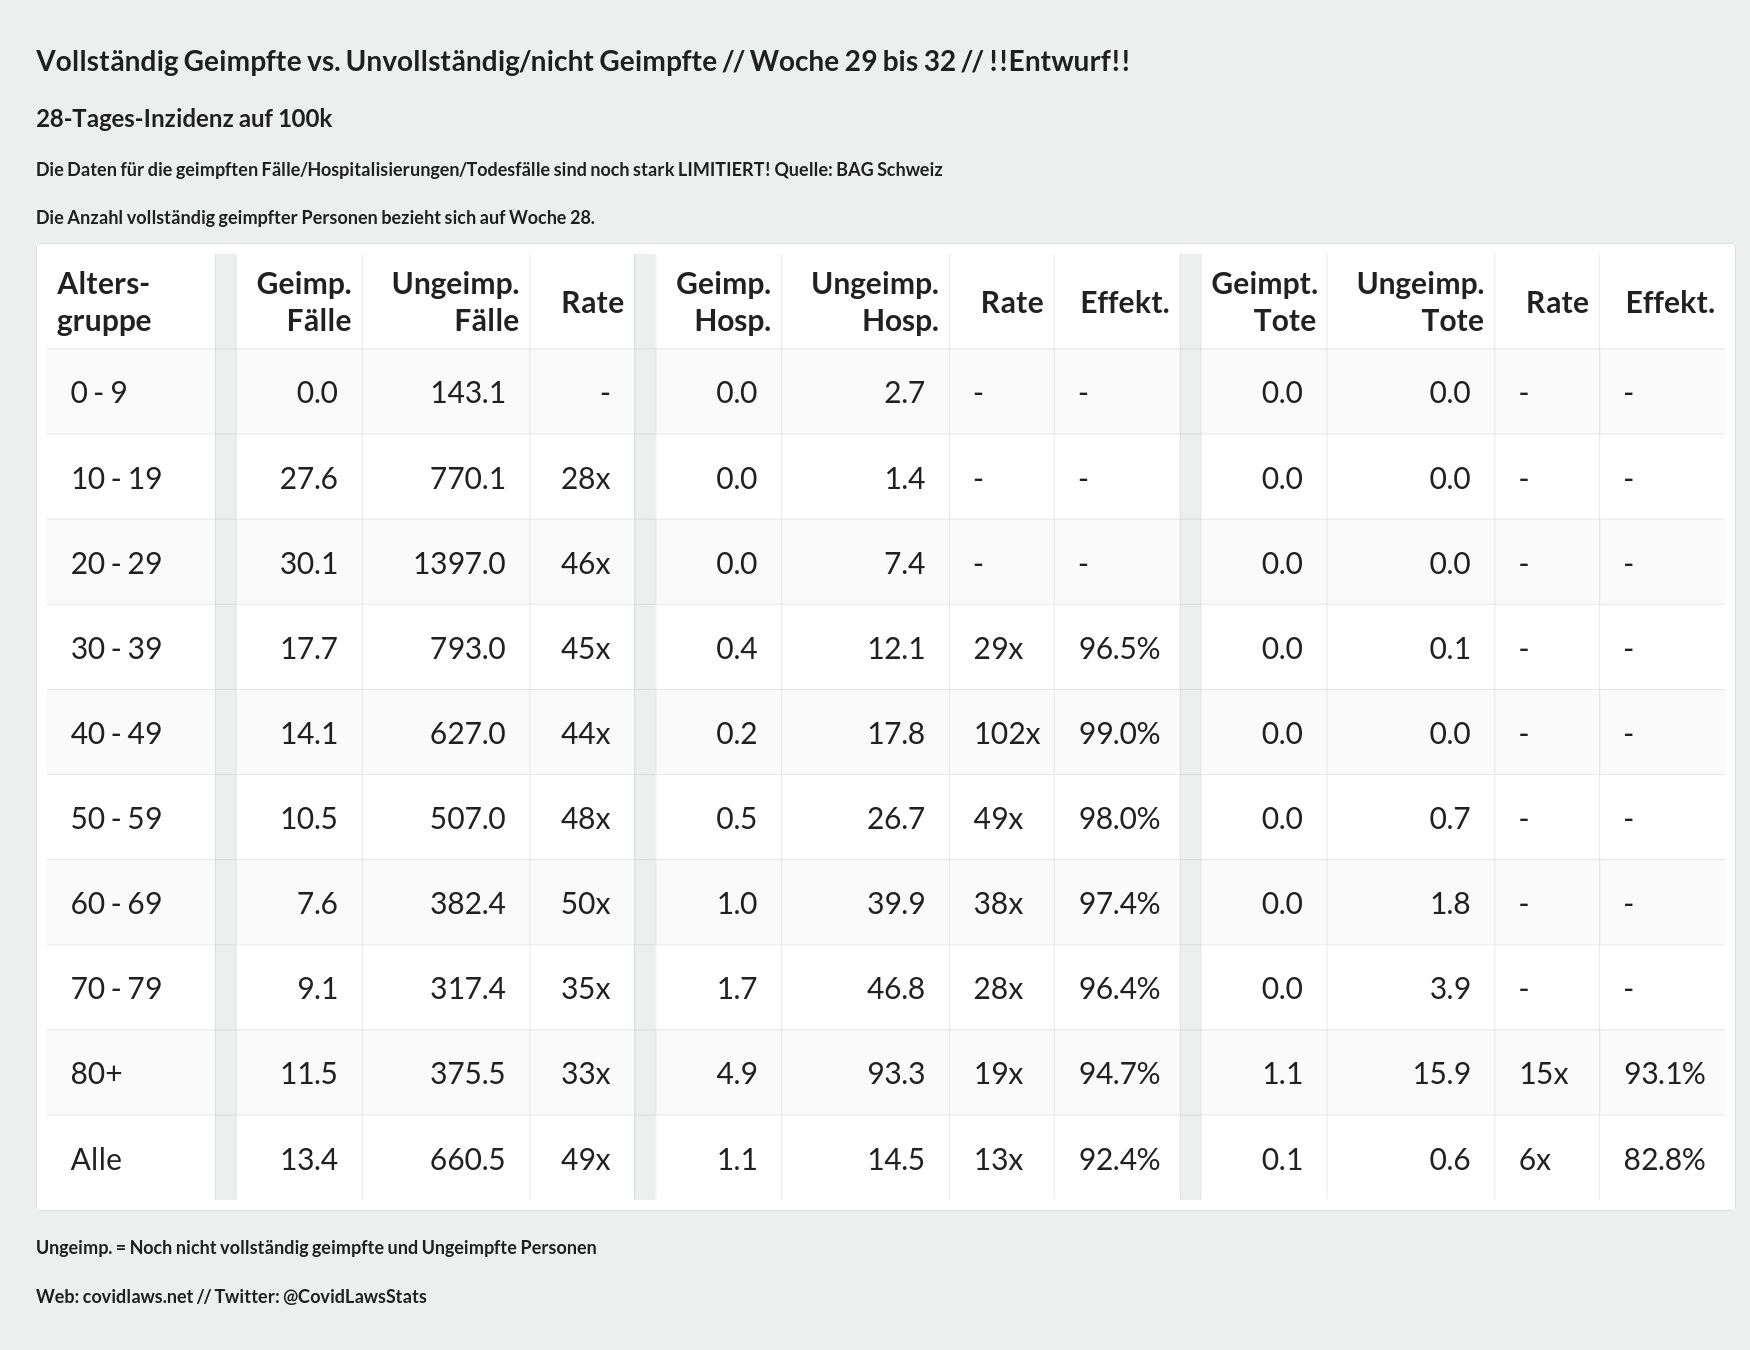
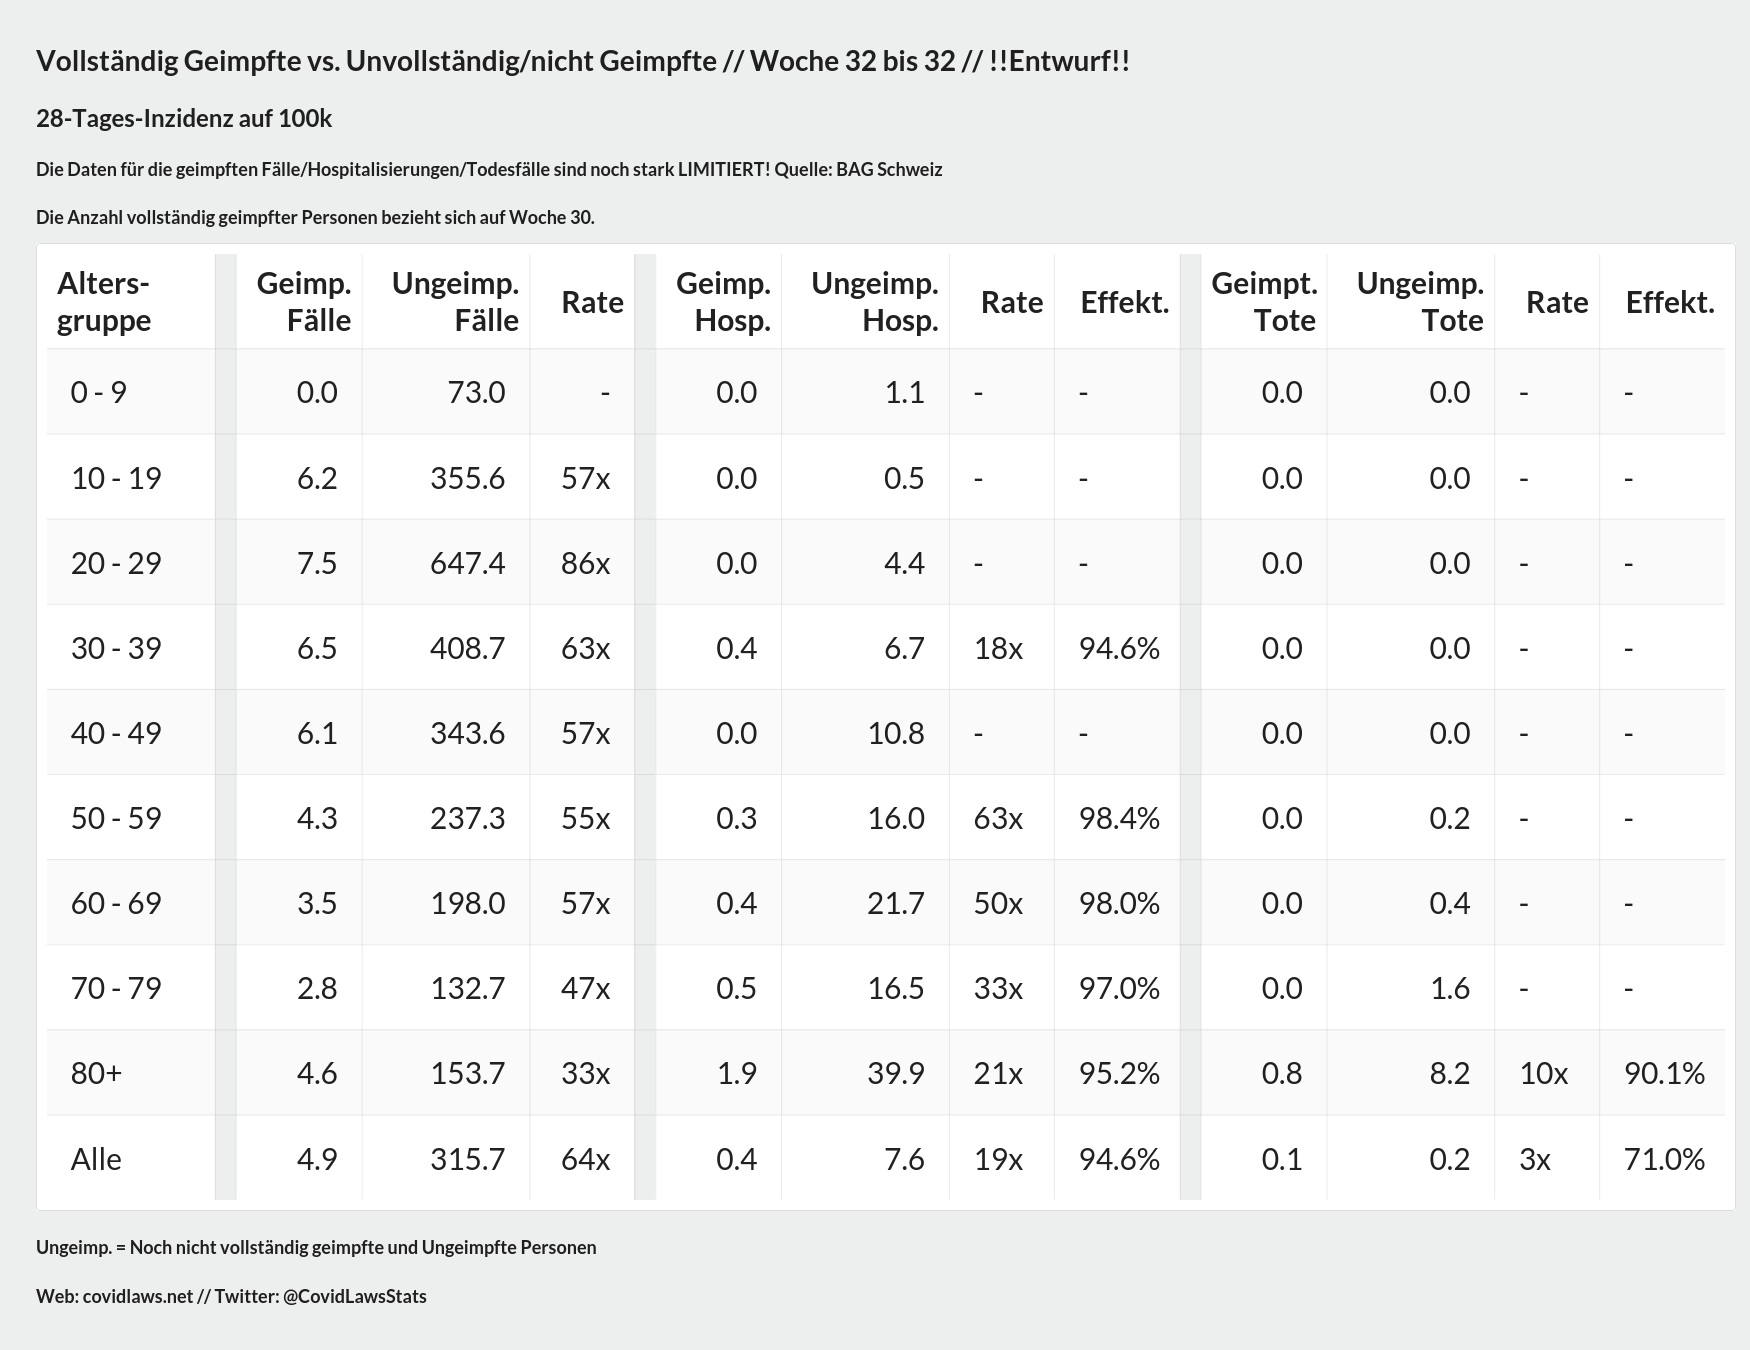
show BE

diff --git a/measuremeterdata/tasks/socialmedia/tweet_vacc.py b/measuremeterdata/tasks/socialmedia/tweet_vacc.py
@@ -62,9 +62,14 @@ def send_tweet(weekfrom, weekto):
         print("Error during authentication")
 
     media = api.media_upload("/tmp/out_image.jpg")
+    if weekto == weekfrom:
+        status_gen = f'Vollständig Geimpfte vs. Unvollständig Geimpfte/Ungeimpfte\nWoche {weekto}\nInzidenzen Fälle/Hospitalisierte/Tote\nDaten sind im BAG-File als "limited" markiert!\nDie Tabelle dient als Demo bis die Zahlen zuverlässiger werden.',
+    else:
+        status_gen = f'Vollständig Geimpfte vs. Unvollständig Geimpfte/Ungeimpfte\nWoche {weekfrom} bis {weekto}\n28-Tage-Inzidenzen Fälle/Hospitalisierte/Tote\nDaten sind im BAG-File als "limited" markiert!\nDie Tabelle dient als Demo bis die Zahlen zuverlässiger werden.',
+
     api.update_status(
-       status=f'Vollständig Geimpfte vs. Unvollständig Geimpfte/Ungeimpfte\nWoche {weekfrom} bis {weekto}\n28-Tage-Inzidenzen Fälle/Hospitalisierte/Tote\nDaten sind im BAG-File als "limited" markiert!\nDie Tabelle dient als Demo bis die Zahlen zuverlässiger werden.',
-       media_ids=[media.media_id_string])
+        status = status_gen,
+        media_ids=[media.media_id_string])
 
 
 
@@ -336,9 +341,13 @@ def create_image(weekfrom, weekto, weekvacc, geo):
            f'</head>' \
            '<body style="background-color: #edeeee;"><div style="margin-top: 20px;margin-bottom: 20px;">' \
            '<table style="margin-left: auto;margin-right: auto;">' \
-           '<tr style="vertical-align: top;"><td>' \
-           f'<h1>Vollständig Geimpfte vs. Unvollständig/nicht Geimpfte // Woche {weekfrom} bis {weekto} // !!Entwurf!!</h1>' \
-           f'<h2>28-Tages-Inzidenz auf 100k</h2>' \
+           '<tr style="vertical-align: top;"><td>'
+    if weekfrom == weekto:
+        html += f'<h1>Vollständig Geimpfte vs. Unvollständig/nicht Geimpfte // Woche {weekto} // !!Entwurf!!</h1>'
+    else:
+        html += f'<h1>Vollständig Geimpfte vs. Unvollständig/nicht Geimpfte // Woche {weekfrom} bis {weekto} // !!Entwurf!!</h1>'
+
+    html +=    f'<h2>Inzidenz auf 100k</h2>' \
            '<h3>Die Daten für die geimpften Fälle/Hospitalisierungen/Todesfälle sind noch stark LIMITIERT! Quelle: BAG Schweiz</h3>' \
            f'<h3>Die Anzahl vollständig geimpfter Personen bezieht sich auf Woche {weekvacc}.</h3>' \
            '<table class="ui celled table striped" style="width: 1700px;table-layout:fixed">' \
@@ -383,5 +392,5 @@ def create_image(weekfrom, weekto, weekvacc, geo):
     html += f'</table><h3>Ungeimp. = Noch nicht vollständig geimpfte und Ungeimpfte Personen</h3><h3>Web: covidlaws.net // Twitter: @CovidLawsStats</h3></td></tr></table> </body></html>'
 
     options = {'width': '1750', 'height': '1350', 'encoding': "UTF-8", }
-    imgkit.from_string(html, "out_image.jpg", options=options)
+    imgkit.from_string(html, "/tmp/out_image.jpg", options=options)
 
